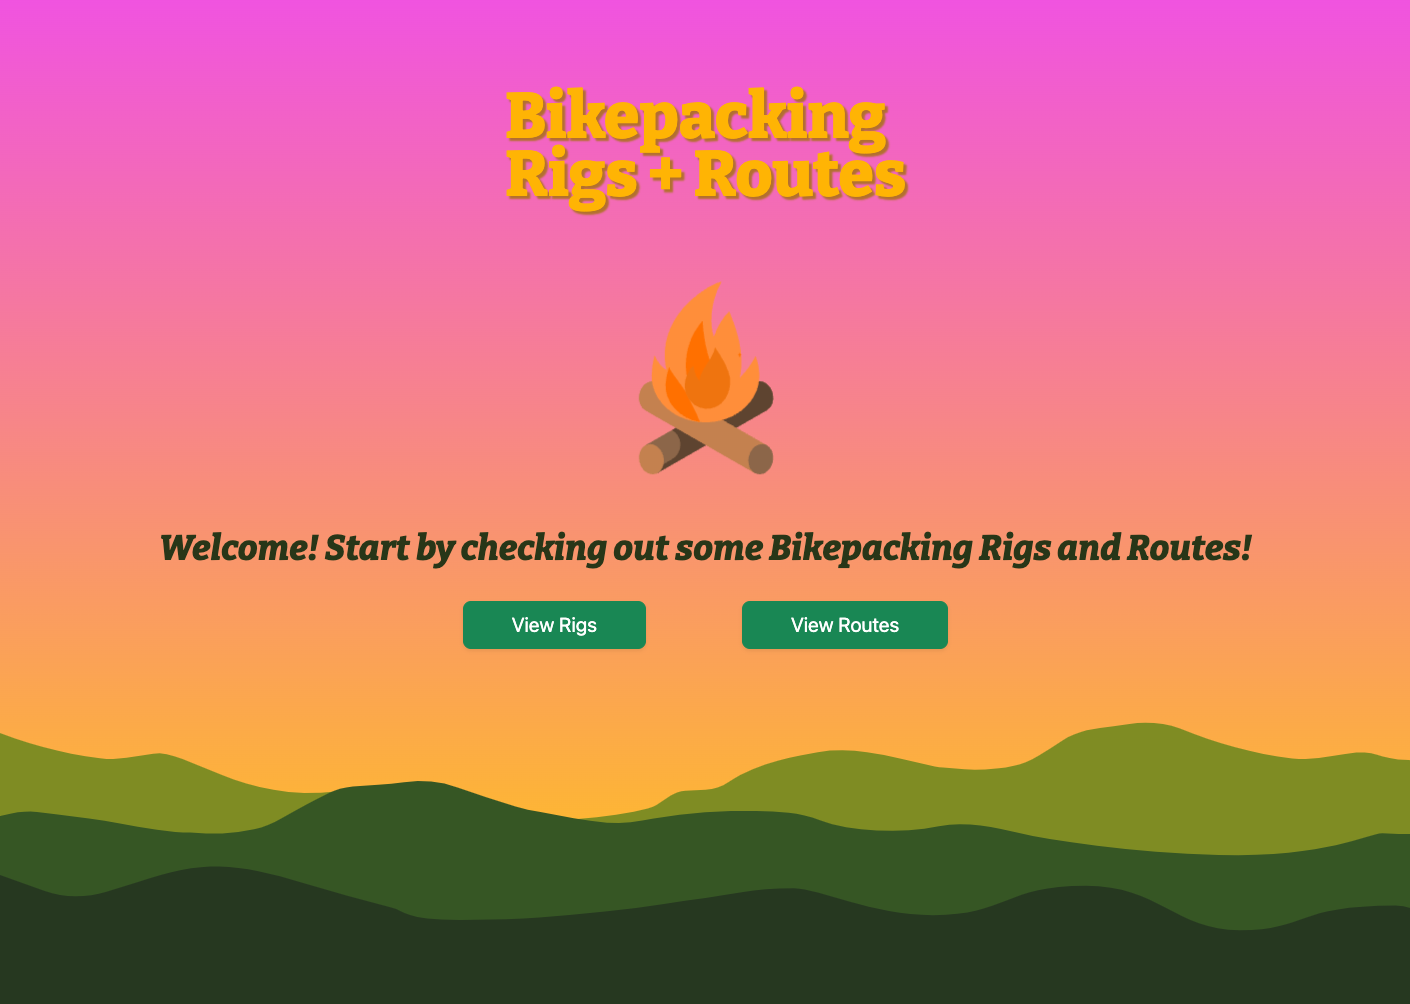
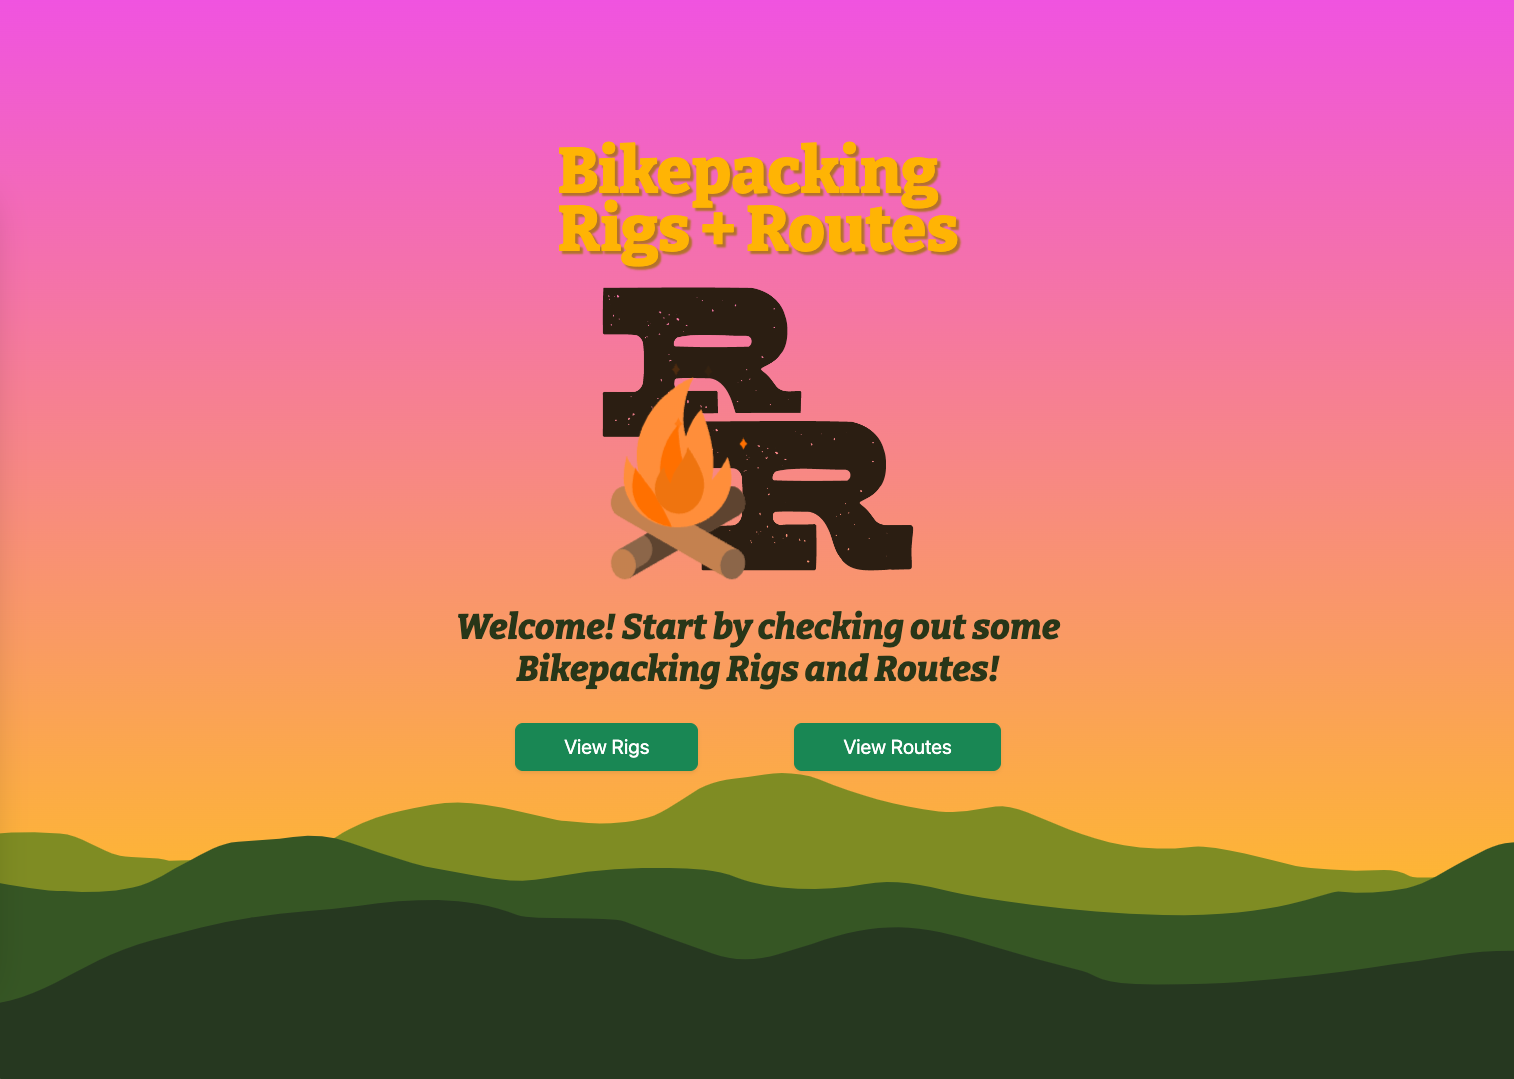
wip

Changed region(s): [[0.0, 0.0926, 1.0, 0.9263], [0.0, 0.8645, 0.1248, 0.9263]]

diff --git a/public/style.css b/public/style.css
@@ -62,6 +62,10 @@ li{
     width: 320px;
     background-repeat: no-repeat;
 }
+.logo-header{
+    max-height: 60px;
+    margin: 8px 8px;
+}
 .wrap{
     background-color: #FEFAE0;
     background-image: linear-gradient(180deg, #f053e0 0%, #ffc022 45%);
@@ -144,6 +148,10 @@ footer{
         background-position: 100% 0;
     }
 }
+.rnr-card{
+    width: 25%; 
+    max-width: 320px;
+}
 .rig-details{
     margin: 2px 0;
     padding: 8px 4px;
@@ -185,4 +193,14 @@ footer{
 }
 .card{
     max-width: 360px;
+}
+
+@media (max-width: 991.98px) {
+    .rnr-card{
+        width: 50%; 
+        max-width: 320px;
+    }
+    h1{
+        font-size: 1.8rem;
+    }
 }

diff --git a/controllers/rigs.js b/controllers/rigs.js
@@ -56,11 +56,4 @@ router.get('/:id', (req,res) => {
     })
 })
 
-// saveImg(rig, req.body.img)
-
-// function saveImg(rig, imgEncoded) {
-//     const image = JSON.parse(imgEncoded)
-//     rig.img = new Buffer.from(img.data, 'base64') 
-// }
-
 module.exports = router
